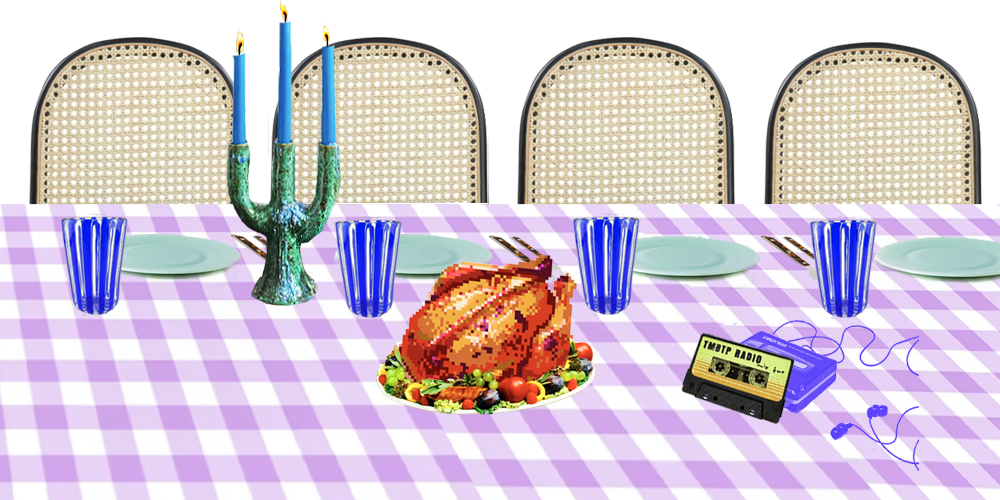
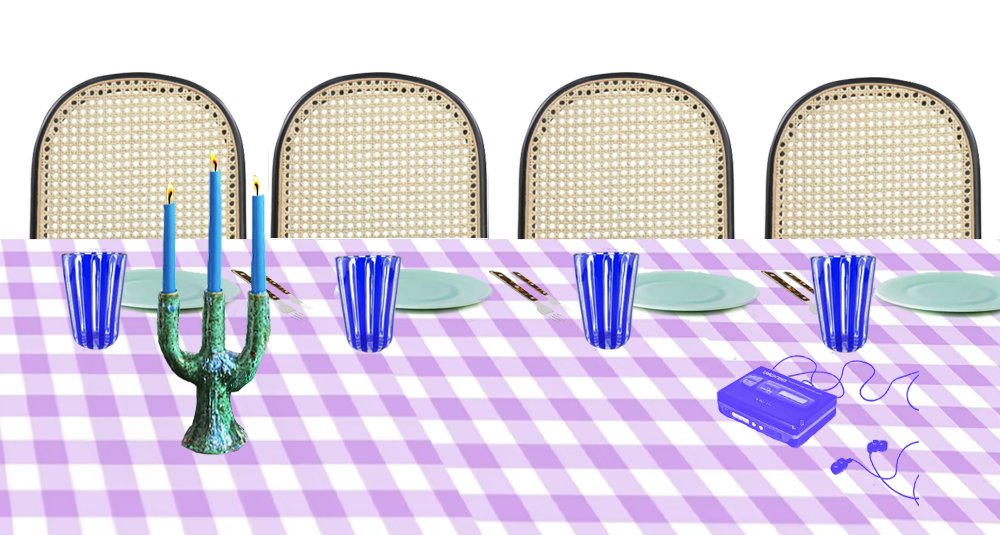
Update nighttime table pic

diff --git a/index.html b/index.html
@@ -216,10 +216,10 @@
 					const window_image = document.getElementById('window');
 					window_image.src = './images/scene/nighttime_window_alone.png';
 				  }
-				  if (420 <= currentTime&&currentTime < 500) {
+				  if (420 <= currentTime&&currentTime < 1110) {
 					document.write("<link rel='stylesheet' href='styles/style.css' type='text/css'>");
 				  }
-				  if (500 <= currentTime&&currentTime <= 1440) {
+				  if (1110 <= currentTime&&currentTime <= 1440) {
 					document.write("<link rel='stylesheet' href='styles/night.css' type='text/css'>");
 					const table_image = document.getElementById('table');
 					table_image.src = './images/scene/set_table_desktop.png';

diff --git a/styles/night.css b/styles/night.css
@@ -215,7 +215,7 @@ main.home {
 }
 .objects [data-object=cassette] {
   width: 70px;
-  bottom: 32px;
+  bottom: 38px;
   left: auto;
   right: 13vw;
 }
@@ -236,7 +236,7 @@ main.home {
   }
 }
 .objects [data-object=chicken] {
-  bottom: 26px;
+  bottom: 36px;
   left: calc(45% - 75px);
   width: 150px;
 }
